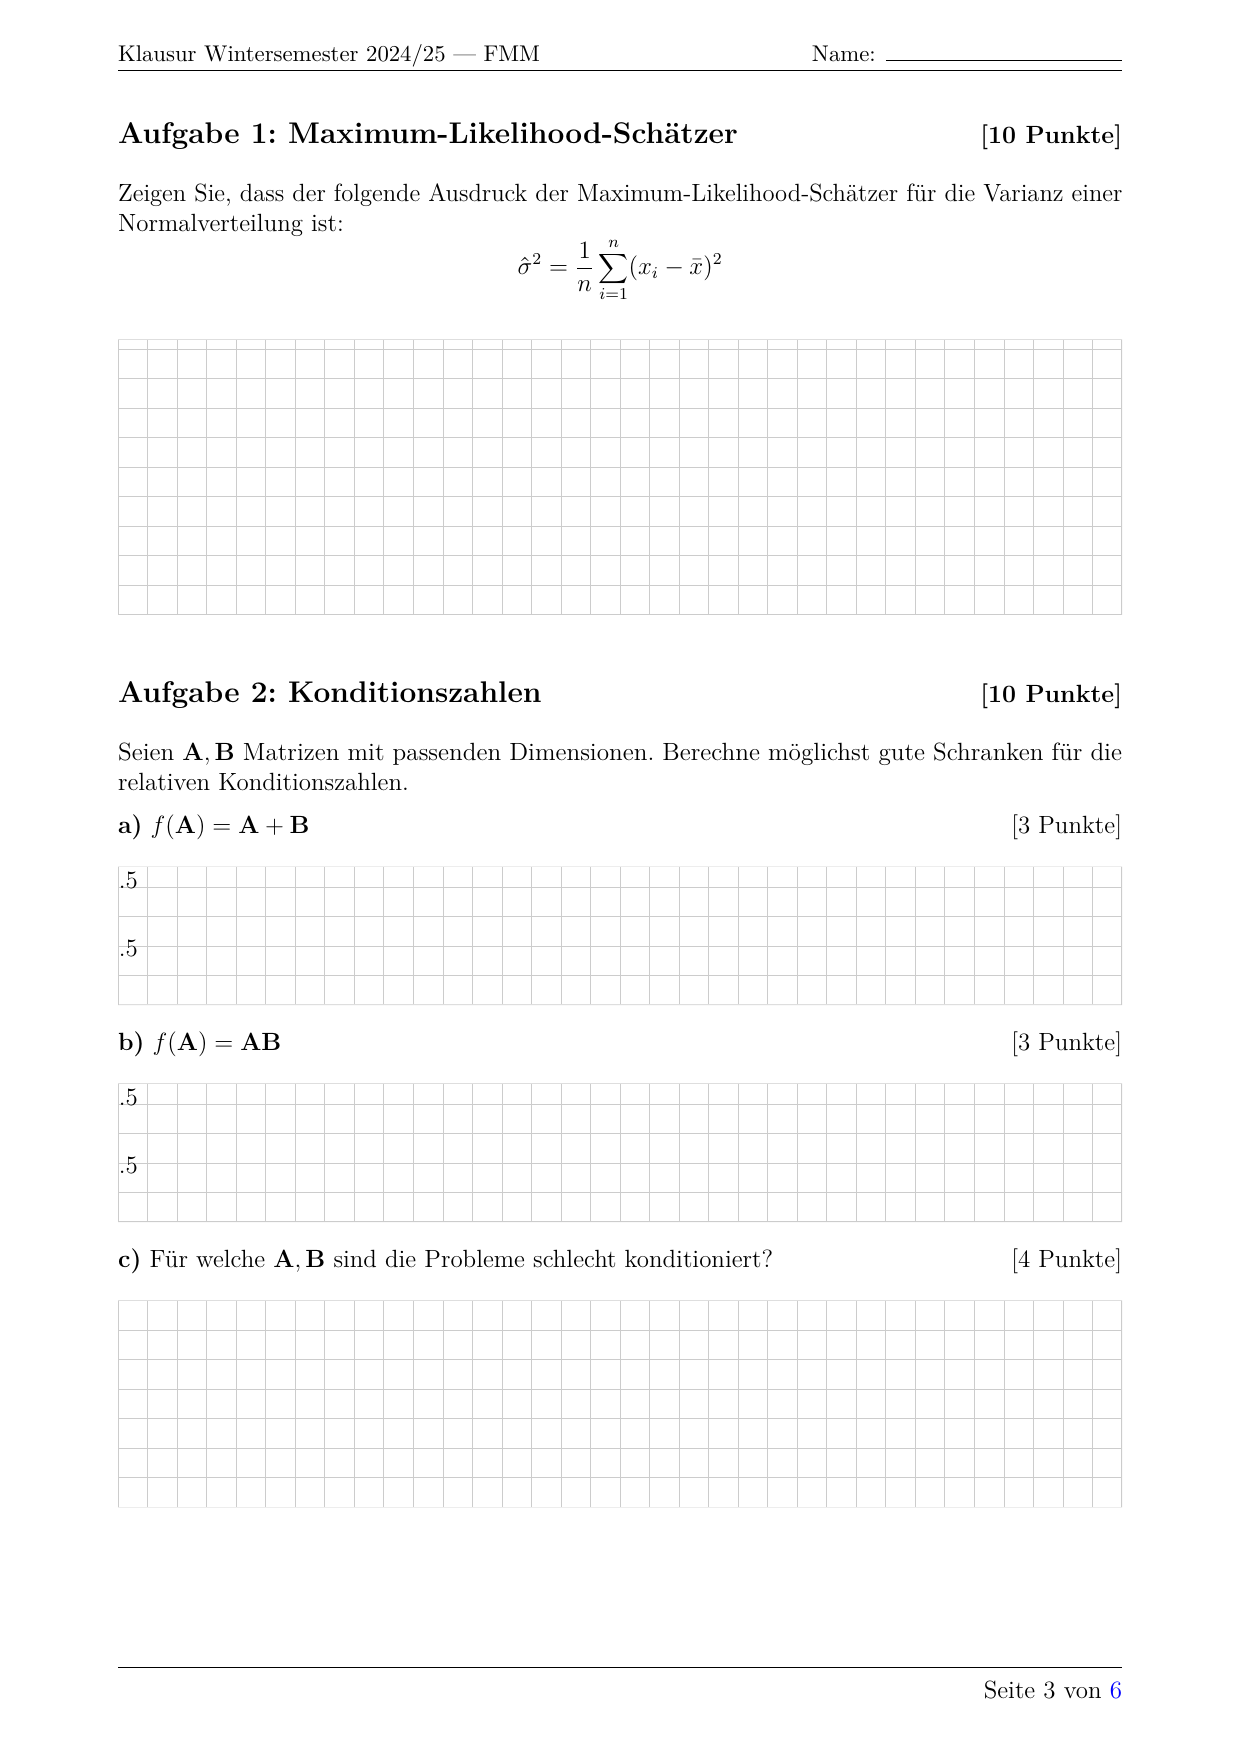
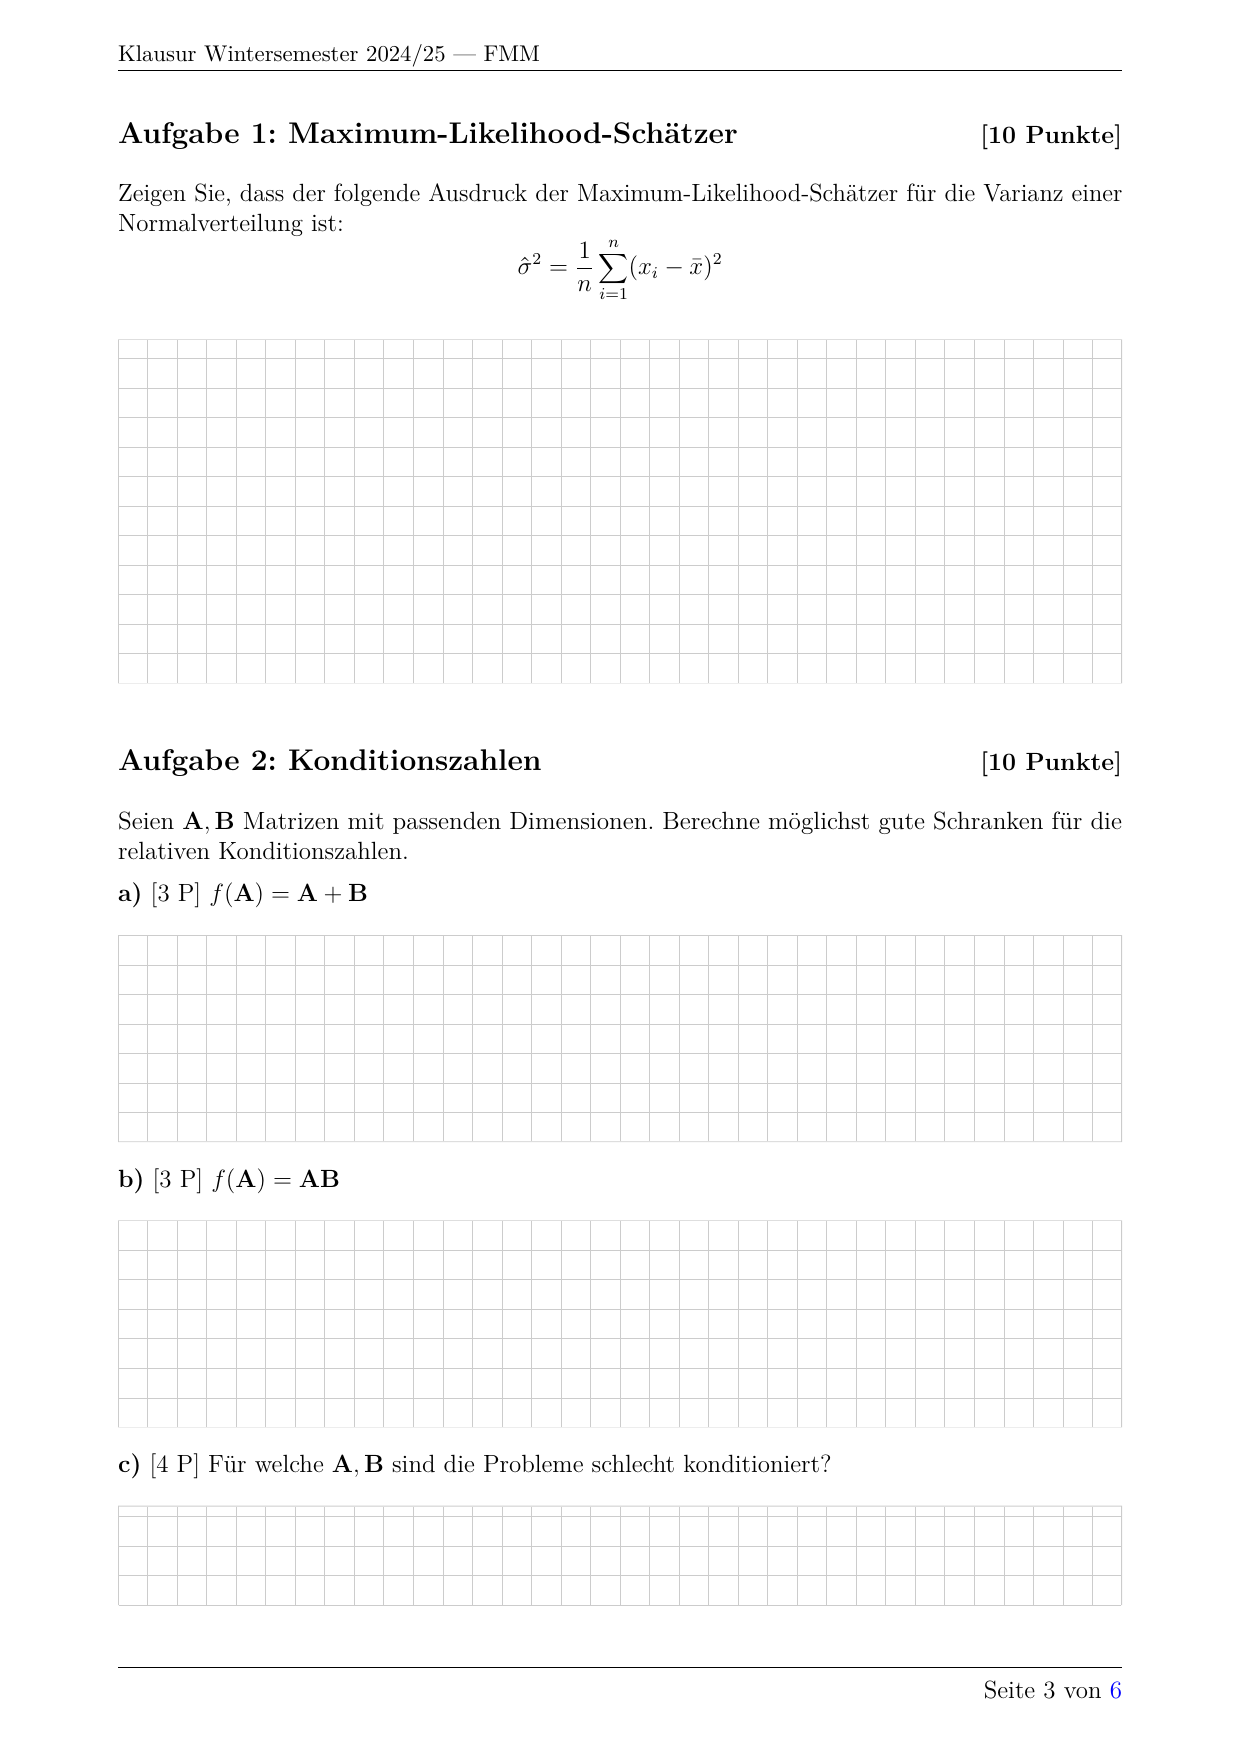
Move sub-exercise points to beginning with abbreviated format
Change sub-exercise display from `a) Question [3 Punkte]` to `a) [3 P] Question`
to prevent awkward line breaks when sub-exercises have complex content.

- Add points_abbrev key to language strings for abbreviated "P" label
- Modify sub-exercise formatting to place points after letter label
- Update CLAUDE.md documentation to reflect new format
- Update README images with current template output

diff --git a/CLAUDE.md b/CLAUDE.md
@@ -130,7 +130,7 @@ Solution content here...
 **Sub-exercise headers (`###`):**
 - `###` on its own line denotes a sub-exercise, auto-numbered a), b), c)...
 - The paragraph following `###` becomes the question text
-- Format: `a) question text [X Punkte]` / `a) question text [X Points]`
+- Format: `a) [X P] question text...` (abbreviated points at beginning)
 - Sub-exercise numbering resets with each new exercise
 
 **Point calculation:**
@@ -234,10 +234,10 @@ Question text...
 Exercise 2: Condition Numbers                             [Y Points]
 Introduction text...
 
-a) f(A) = A + B                                           [3 Points]
+a) [3 P] f(A) = A + B
 [2.5cm answer box with grid]
 
-b) f(A) = A B                                             [3 Points]
+b) [3 P] f(A) = A B
 [auto-sized answer box with grid]
 ```
 
